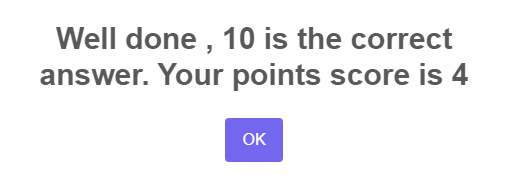
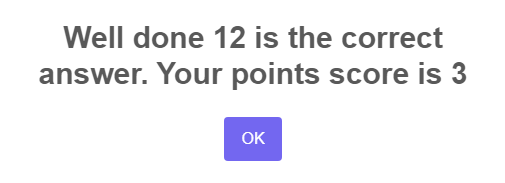
Final Commit

diff --git a/assets/js/script.js b/assets/js/script.js
@@ -72,7 +72,7 @@
  **/
 function runLevel(gameLevel) {
 
-	document.getElementById('answer-field').value = "";
+	document.getElementById('answer-field').value = '';
 	document.getElementById('answer-field').focus();
 
 	// Creates random numbers between 1 and 6
@@ -177,6 +177,7 @@ function runLevel(gameLevel) {
 
 	} else if (gameLevel === 'level-5') {
 		const levelNum = gameLevel;
+		document.getElementById('level').innerHTML = levelNum;
 		const image1 = `<img src="assets/images/dice${num1}.png" alt="${num1}">`;
 		document.getElementById('dice-1').innerHTML = image1;
 		const image2 = `<img src="assets/images/dice${num2}.png" alt="${num2}">`;
@@ -198,6 +199,7 @@ function runLevel(gameLevel) {
 
 	} else if (gameLevel === 'level-6') {
 		const levelNum = gameLevel;
+		document.getElementById('level').innerHTML = levelNum;
 		const image1 = `<img src="assets/images/dice${num1}.png" alt="${num1}">`;
 		document.getElementById('dice-1').innerHTML = image1;
 		const image2 = `<img src="assets/images/dice${num2}.png" alt="${num2}">`;
@@ -238,10 +240,10 @@ function isAnswerCorrect() {
 	let answerIsCorrect = userAnswer === correctAnswer[0];
 
 	if (answerIsCorrect) {
-		Swal.fire(`Well done ${player}, ${userAnswer} is the correct answer. Your points score is ${roundpoints}`); /*SweetAlert correct answer message*/
+		Swal.fire(`Well done ${player} ${userAnswer} is the correct answer. Your points score is ${roundpoints}`); /*SweetAlert correct answer message*/
 		updatePlayerScore();
 	} else {
-		Swal.fire(`Sorry ${userAnswer} is incorrect. The dice add up to ${correctAnswer[0]}, Your points score ${roundpoints} goes to the Computer .  Have another go ${player}, you can do it`); /*SweetAlert incorrect answer message*/
+		Swal.fire(`Sorry ${userAnswer} is incorrect. The dice add up to ${correctAnswer[0]} Your points score ${roundpoints} goes to the Computer .  Have another go ${player}, you can do it`); /*SweetAlert incorrect answer message*/
 		updateCompScore();
 	}
 
@@ -274,7 +276,7 @@ function addDice(gameLevel) {
 	} else if (calcLevel === 'level-2') {
 		return [operand1 + operand2, 'level-2'];
 	} else if (calcLevel === 'level-3') {
-		return [(operand1 + operand2) + operand3, 'level-3'];
+		return [(operand1 + operand2 + operand3), 'level-3'];
 	} else if (calcLevel === 'level-4') {
 		return [(operand1 + operand2 + operand3 + operand4), 'level-4'];
 	} else if (calcLevel === 'level-5') {

diff --git a/index.html b/index.html
@@ -82,12 +82,12 @@
       </div>
       <br>
       <div><!-- Random numbers stored in html data attributes-->
-         <span id="dice1" data-opval=""></span>
-         <span id="dice2" data-opval=""></span>
-         <span id="dice3" data-opval=""></span>
-         <span id="dice4" data-opval=""></span>
-         <span id="dice5" data-opval=""></span>
-         <span id="dice6" data-opval=""></span>
+         <span id="dice1" data-opval="0"></span>
+         <span id="dice2" data-opval="0"></span>
+         <span id="dice3" data-opval="0"></span>
+         <span id="dice4" data-opval="0"></span>
+         <span id="dice5" data-opval="0"></span>
+         <span id="dice6" data-opval="0"></span>
          <span id="roundScore" data-scoreValue=""></span> 
          <br>
          <label aria-label="What number do the dice add up to?"></label>
